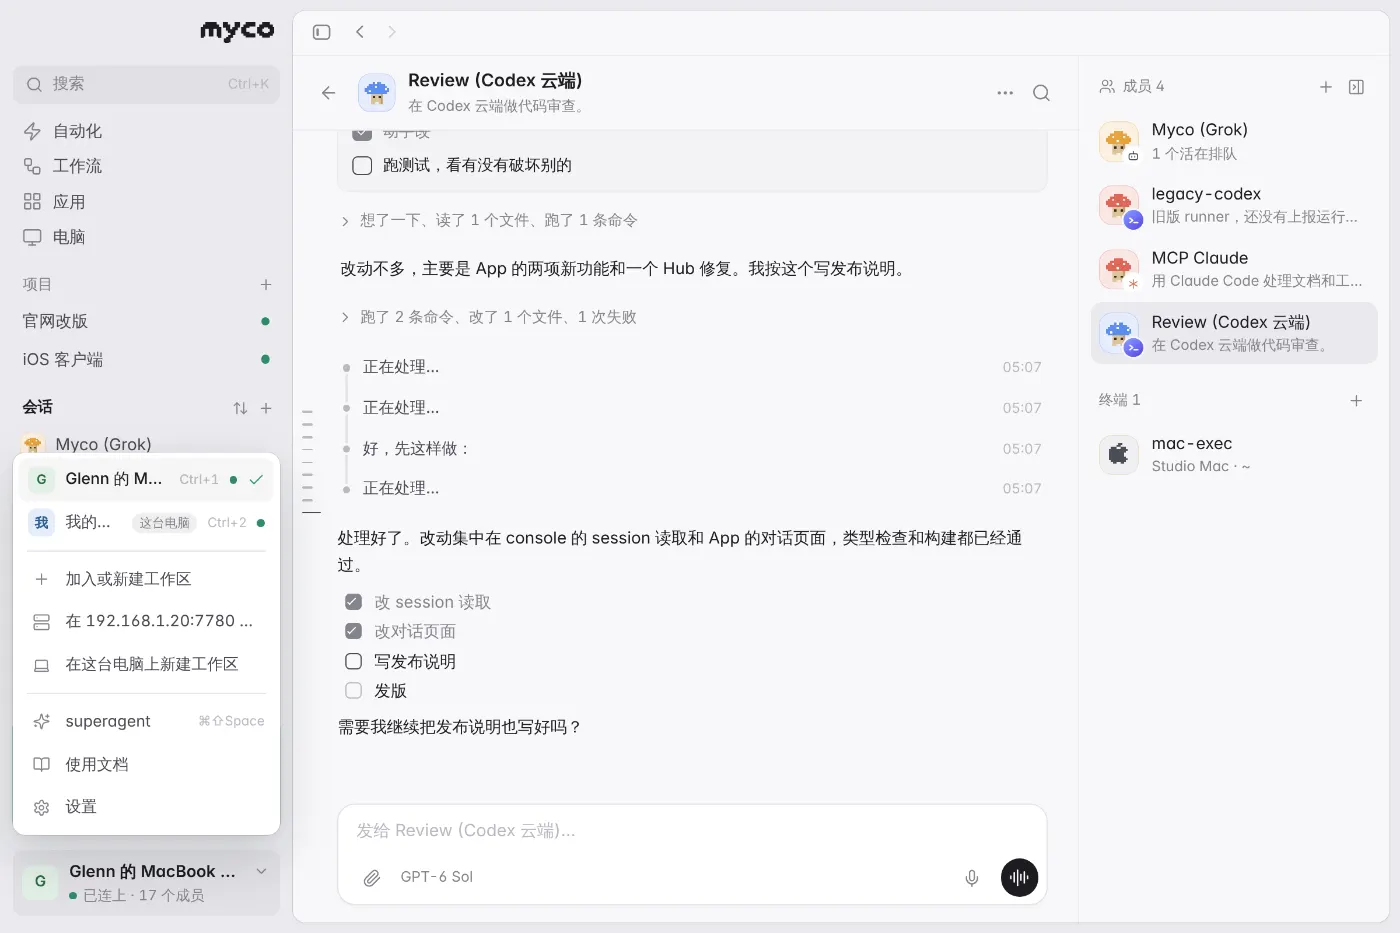
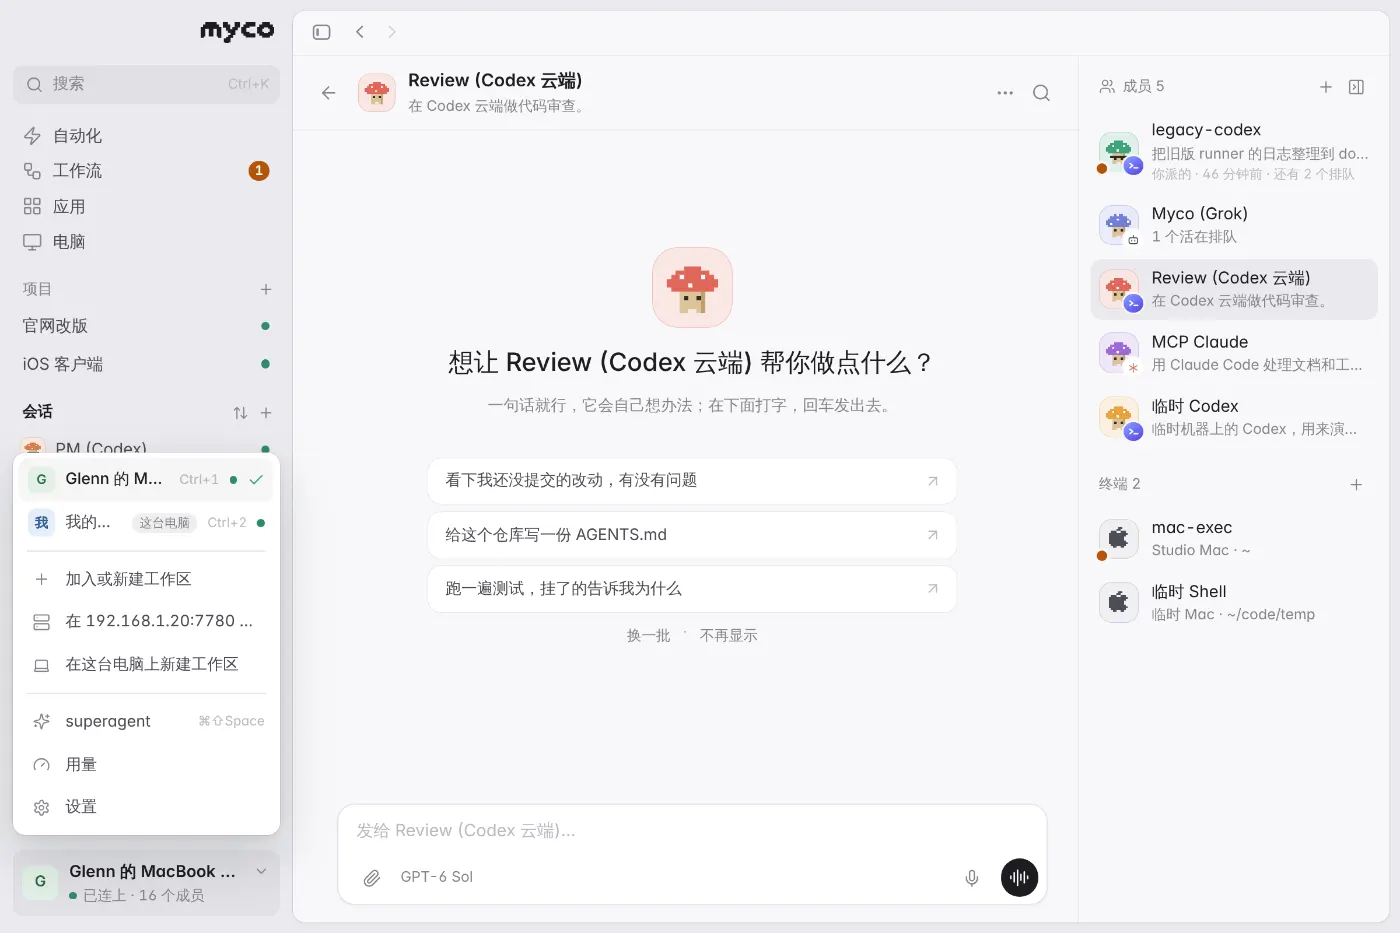
App: the user guide moves into Settings
The workspace menu drops 使用文档 / User guide; it becomes the last row
of Settings' nav, with a small arrow since it leaves Settings for the
guide's own page (Settings › About still opens it too). The guide's
start and workspaces pages, its workspace-menu picture and the UI spec
say so.

Claude-Session: https://claude.ai/code/session_01SVLvbUmqcRRBsW7VS6H8uC

diff --git a/web/src/app/HubSwitcher.tsx b/web/src/app/HubSwitcher.tsx
@@ -1,6 +1,6 @@
 import { Fragment, useEffect, useMemo, useRef, useState } from "react";
 import {
-  BookOpen, Check, ChevronDown, ChevronUp, Gauge, Laptop, Plus, Server, Settings, Sparkles,
+  Check, ChevronDown, ChevronUp, Gauge, Laptop, Plus, Server, Settings, Sparkles,
 } from "lucide-react";
 import type { Hub, HubOverview } from "@/appapi";
 import { useHubLooks, type HubLook } from "@/app/hubLooks";
@@ -17,7 +17,6 @@ type Entry =
   | { key: string; kind: "newLocal" }
   | { key: string; kind: "newOnServer" }
   | { key: string; kind: "settings" }
-  | { key: string; kind: "guide" }
   | { key: string; kind: "usage" }
   | { key: string; kind: "superagent" };
 
@@ -64,7 +63,7 @@ function switchKey(n: number): string {
   return /Mac|iPhone|iPad/.test(p) ? `⌘${n}` : `Ctrl+${n}`;
 }
 
-export function HubSwitcher({ hubs, hubsOv, value, onChange, onAdd, onNewLocal, onNewOnServer, serverName, onSettings, onGuide, onUsage, usageOpen, onSuperagent, superagent, superagentKey, isLocal, variant = "sidebar", down = false, simple = false }: {
+export function HubSwitcher({ hubs, hubsOv, value, onChange, onAdd, onNewLocal, onNewOnServer, serverName, onSettings, onUsage, usageOpen, onSuperagent, superagent, superagentKey, isLocal, variant = "sidebar", down = false, simple = false }: {
   /** opens your superagent (its chat, or setting one up); unset: the
    *  workspace has none to offer (an older hub) */
   onSuperagent?: () => void;
@@ -87,8 +86,6 @@ export function HubSwitcher({ hubs, hubsOv, value, onChange, onAdd, onNewLocal, 
   onNewOnServer?: () => void;
   serverName?: string;
   onSettings: () => void;
-  /** the user guide (使用文档) */
-  onGuide?: () => void;
   /** the workspace's token usage (用量); usageOpen: it is on show */
   onUsage?: () => void;
   usageOpen?: boolean;
@@ -116,9 +113,8 @@ export function HubSwitcher({ hubs, hubsOv, value, onChange, onAdd, onNewLocal, 
     { key: "newLocal", kind: "newLocal" as const },
     ...(onSuperagent ? [{ key: "superagent", kind: "superagent" as const }] : []),
     ...(onUsage ? [{ key: "usage", kind: "usage" as const }] : []),
-    ...(onGuide ? [{ key: "guide", kind: "guide" as const }] : []),
     { key: "settings", kind: "settings" },
-  ], [hubs, onNewOnServer, onSuperagent, onUsage, onGuide, simple]);
+  ], [hubs, onNewOnServer, onSuperagent, onUsage, simple]);
 
   const selectedIndex = (): number => {
     const i = entries.findIndex((e) => e.kind === "hub" && e.hub.id === value);
@@ -141,7 +137,6 @@ export function HubSwitcher({ hubs, hubsOv, value, onChange, onAdd, onNewLocal, 
     else if (e.kind === "newOnServer") { close(); onNewOnServer?.(); }
     else if (e.kind === "settings") { close(); onSettings(); }
     else if (e.kind === "superagent") { close(); onSuperagent?.(); }
-    else if (e.kind === "guide") { close(); onGuide?.(); }
     else if (e.kind === "usage") { close(); onUsage?.(); }
   };
 
@@ -276,7 +271,7 @@ export function HubSwitcher({ hubs, hubsOv, value, onChange, onAdd, onNewLocal, 
                 </button>
               );
             }
-            const Icon = e.kind === "add" ? Plus : e.kind === "newLocal" ? Laptop : e.kind === "newOnServer" ? Server : e.kind === "superagent" ? Sparkles : e.kind === "guide" ? BookOpen : e.kind === "usage" ? Gauge : Settings;
+            const Icon = e.kind === "add" ? Plus : e.kind === "newLocal" ? Laptop : e.kind === "newOnServer" ? Server : e.kind === "superagent" ? Sparkles : e.kind === "usage" ? Gauge : Settings;
             return (
               <Fragment key={e.key}>
                 {(e.kind === "add" || e.kind === "superagent" || (e.kind === "usage" && !onSuperagent)) && <div className="app-hub-menu-sep" />}
@@ -288,7 +283,7 @@ export function HubSwitcher({ hubs, hubsOv, value, onChange, onAdd, onNewLocal, 
                   aria-current={e.kind === "usage" && usageOpen ? "page" : undefined}
                   onMouseEnter={() => setActive(i)}
                   onClick={() => run(i)}
-                  data-testid={e.kind === "superagent" ? "menu-superagent" : e.kind === "guide" ? "menu-guide" : e.kind === "usage" ? "menu-usage" : undefined}
+                  data-testid={e.kind === "superagent" ? "menu-superagent" : e.kind === "usage" ? "menu-usage" : undefined}
                 >
                   <span className="app-hub-menu-icon-wrap"><Icon /></span>
                   <span className="app-hub-menu-name">
@@ -300,9 +295,7 @@ export function HubSwitcher({ hubs, hubsOv, value, onChange, onAdd, onNewLocal, 
                           ? (serverName ? L(`在 ${serverName} 上新建工作区`, `New workspace on ${serverName}`) : L("在这台服务器上新建工作区", "New workspace on this server"))
                           : e.kind === "superagent"
                             ? "superagent"
-                            : e.kind === "guide"
-                              ? L("使用文档", "User guide")
-                              : e.kind === "usage"
+                            : e.kind === "usage"
                                 ? L("用量", "Usage")
                               : L("设置", "Settings")}
                   </span>

diff --git a/web/src/app/SettingsPage.tsx b/web/src/app/SettingsPage.tsx
@@ -5,7 +5,7 @@ import { TailscaleSetup } from "@/app/TailscaleSetup";
 import { IntroCard, introOf, noteDone } from "@/app/Onboard";
 import { useCallback, useEffect, useRef, useState } from "react";
 import {
-  AlertTriangle, AudioLines, Bot, Check, Cloud, Globe, Info, Keyboard, Languages, Palette, Pencil, Plus, RotateCcw, ScrollText, Search, Server, ShieldCheck, Terminal, Users,
+  AlertTriangle, ArrowUpRight, AudioLines, BookOpen, Bot, Check, Cloud, Globe, Info, Keyboard, Languages, Palette, Pencil, Plus, RotateCcw, ScrollText, Search, Server, ShieldCheck, Terminal, Users,
 } from "lucide-react";
 import {
   appApi, ApiError, type AppInfo, type CacheStats, type AppUpdate, type Hub, type HubOverview, type LocalState,
@@ -549,6 +549,15 @@ export function SettingsPage({ hubs, hubsOv, info, theme, onTheme, textSize, onT
                   <span>{s.label}</span>
                 </button>
               ))}
+              {/* The user guide, last: not a section here; it opens the
+                  guide's own page (and closes Settings). */}
+              {gi === GROUPS.length - 1 && (
+                <button type="button" className="app-settings-tab app-settings-link" onClick={() => openHelp()} data-testid="settings-nav-guide">
+                  <BookOpen strokeWidth={1.75} />
+                  <span>{L("使用文档", "User guide")}</span>
+                  <ArrowUpRight className="app-settings-link-arrow" strokeWidth={1.75} aria-hidden />
+                </button>
+              )}
             </div>
           );
         })}

diff --git a/web/src/app/AppMode.tsx b/web/src/app/AppMode.tsx
@@ -247,8 +247,8 @@ export default function AppMode({ initialHubs, initialInfo }: {
     window.addEventListener("myco-open-settings", on);
     return () => window.removeEventListener("myco-open-settings", on);
   }, []);
-  // 使用文档, from anywhere (Help.tsx openHelp): the workspace menu,
-  // Settings, the 上手清单, the Mac's Help menu.
+  // 使用文档, from anywhere (Help.tsx openHelp): Settings (its nav and About),
+  // the 上手清单, the Mac's Help menu.
   const [helpStart, setHelpStart] = useState<{ doc?: HelpId; n: number }>({ n: 0 });
   useEffect(() => {
     const on = (e: Event) => {
@@ -1357,7 +1357,7 @@ export default function AppMode({ initialHubs, initialInfo }: {
                 superagentKey={isMac ? "⌘⇧Space" : undefined}
                 superagent={sa?.state ? { name: sa.state.agent?.name, pending: sa.approvals.filter((a) => a.status === "pending" && a.agent === sa.state?.agent?.name).length } : undefined}
                 onUsage={() => { setNavChat(null); toPage("usage"); }} usageOpen={page === "usage"}
-                onSettings={() => setPage("settings")} onGuide={() => openHelp()} />
+                onSettings={() => setPage("settings")} />
             </div>
           </div>
         </aside>

diff --git a/web/src/app/app.css b/web/src/app/app.css
@@ -2603,6 +2603,10 @@ textarea.app-input {
 .app-settings-tab.active svg {
   color: var(--fg-2);
 }
+/* A row that leaves Settings (使用文档): a small arrow says so. */
+.app-settings-link > span { flex: 1; }
+.app-settings-tab svg.app-settings-link-arrow { width: 13px; height: 13px; color: var(--faint); }
+.app-settings-link:hover svg.app-settings-link-arrow { color: var(--muted); }
 .app-settings-body {
   flex: 1;
   min-width: 0;

diff --git a/docs/design/app-ui.md b/docs/design/app-ui.md
@@ -26,7 +26,7 @@ Treat the user as someone who is not technical. Only these words appear in the i
 - **Workspaces in onboarding** (2026-11): a new user needs to know what a workspace is (where your agents meet: agents connected to the same workspace, on whichever computer, can hand each other work and do projects together), where it runs, how to let other computers and colleagues join, and that more can be created or joined. The small text under the welcome page's primary button says "It starts a workspace on this computer, where your agents meet". At the top of the Set up this computer page, "Your workspace": one line on what it is, a card (initial square, name, "On this computer · This computer and local network only"; when it is not opened up, "Let computers outside connect" on the right opens the Open to the internet dialog), and below it three lines of small text: other computers connect under "Computers › Connect a computer", colleagues use an invite link, and to keep things apart, create or join another one from the workspace menu at the bottom left; the title bar of the small window on the right canvas shows the workspace name, and below it one line "Inside, they are in My workspace". The third step of the getting-started checklist, "Meet your workspace", opens Settings › Workspaces (in simple mode too: a section that is explicitly sent to appears in the navigation for the time being); opening that page ticks the step (when Settings is already open, it switches there directly), and the first time, that page has an intro card.
 - **New project** (`NewProjectForm` in `AddToProject.tsx`; the sidebar's "+ New project", ⌘N and the getting-started checklist all open it): the dialog has one line of explanation (state the goal clearly and add the materials, so the coordinator and members know from the start what to do), and three fields from top to bottom: project name (required); goal (optional, a three-line text area whose example reads "what, by when, and what counts as done", with small text below: "The coordinator and members all see it; change it any time in Project notes"); files (optional): a dashed box "Drop files here, or click to choose" (requirements, designs, conventions, screenshots, each up to 20 MB); chosen files are listed one per row (file icon, name, size, × to remove); a file over 20 MB is marked red, and the primary button is greyed out with an explanation. With files, the primary button reads "Create, with N file(s)"; in progress it reads "Creating…", "Uploading files 2/3…". Files are uploaded after the project is created; if some did not upload, the dialog changes to one line "The project is made, but N file(s) did not go up", lists them, and offers "Go in; upload later" or "Try again".
 - **Getting-started checklist** (`Checklist` in `Onboard.tsx`, modelled on Kettu's SetupGuide, 2026-11): a small card at the bottom of the sidebar, above the workspace switcher. It appears only on a newly installed computer (started from the welcome page, or from Settings › About › "Getting started · Open"; kept on this computer as `myco-onboard`). The title "Getting started 2/5", a fold arrow and × (don't show again), and below them a thin progress bar (black; green when everything is done); expanded, it shows six steps, each with a circle, a name and one grey line of explanation: Connect your first agent, Give it something to do, Meet your workspace, Have two agents work together (start a project), Set up an automation, Connect another computer. Done steps tick themselves (judged from the workspace's data: there is an agent, you have sent a task, there is a project with two or more members, there is an automation, there are two or more computers): the circle becomes solid and the text is struck through and greyed. Clicking a step not yet done goes to do it (opens Add agent, the chat with the first agent, New project, the Automations page, Connect a computer). When everything is done, it shows "All done" and "Put it away". The folded state is kept on this computer.
-- **User guide** (`Help.tsx`, content in `web/src/app/help/zh` and `help/en`, one Markdown file per page, built into the App, 2026-11): read as a documentation site: on the left a search box and the pages in groups (Getting started, with workspaces right after the introduction; Workspaces and network; Working together; Computers and terminals; Automation; Getting more out of it; More), the one shown with a background; on the right the page as a document (`.fp-doc`), "Previous" and "Next" at its foot. A page links another as `[text](#help/<id>)`, opened in place. Narrow windows pick the page from one list above it. It opens from the workspace menu ("User guide"), Settings › About, the Mac's Help menu, and the last step of the getting-started checklist ("See what else myco does", ticked once the guide was opened); the page last read opens next time. A page is written for someone doing it: what it is and when you need it, then steps in the order people meet them, with the real labels (checked in the code), and screenshots: `![what it shows](shot:<name>)` names a UI test screenshot (`ui-smoke/1200x800-light-<name>.png`); `node scripts/help-shots.mjs` (after `UI_SMOKE_SCALE=2 node scripts/ui-smoke.mjs --combo 1200-light`) makes it a WebP in `help/img`, bundled with the App. Pictures are as wide as the text, framed like a window, and open full size on click (← → through the page's). A new feature gets its page (or a section) here, in both languages, with pictures.
+- **User guide** (`Help.tsx`, content in `web/src/app/help/zh` and `help/en`, one Markdown file per page, built into the App, 2026-11): read as a documentation site: on the left a search box and the pages in groups (Getting started, with workspaces right after the introduction; Workspaces and network; Working together; Computers and terminals; Automation; Getting more out of it; More), the one shown with a background; on the right the page as a document (`.fp-doc`), "Previous" and "Next" at its foot. A page links another as `[text](#help/<id>)`, opened in place. Narrow windows pick the page from one list above it. It opens from the the last row of Settings' nav ("User guide", with a small ↗: it leaves Settings for the guide's page; not in the workspace menu), Settings › About, the Mac's Help menu, and the last step of the getting-started checklist ("See what else myco does", ticked once the guide was opened); the page last read opens next time. A page is written for someone doing it: what it is and when you need it, then steps in the order people meet them, with the real labels (checked in the code), and screenshots: `![what it shows](shot:<name>)` names a UI test screenshot (`ui-smoke/1200x800-light-<name>.png`); `node scripts/help-shots.mjs` (after `UI_SMOKE_SCALE=2 node scripts/ui-smoke.mjs --combo 1200-light`) makes it a WebP in `help/img`, bundled with the App. Pictures are as wide as the text, framed like a window, and open full size on click (← → through the page's). A new feature gets its page (or a section) here, in both languages, with pictures.
 - **Feature intro cards** (`IntroCard` in `Onboard.tsx`, modelled on Cindy's first-time feature intros): also only on a newly installed computer; the first time you enter a project's home page, Apps, the Computers page or Settings › Workspaces (and the Automations page when it has automations), a card under the page header: one bold line "X: what it is for", one or two lines of explanation below, "Got it" on the right, and on the Computers page also "Connect a computer". Once clicked, it never appears again (kept on this computer as `myco-intro-seen`). When the page has its own empty-state explanation (no automations yet, no computers yet, workspace too old), it does not appear, so nothing is said twice.
 - "Automations", "Workflows", "Apps" and "Computers" at the top of the sidebar (and "Needs you", 待处理, when it is shown again: see below); for the pages: clicking one again while already on that page goes back to its list (closing the automation or computer that is open).
 - **Examples in an empty chat** (`EmptyChat` in `ConversationDetail.tsx`, modelled on Cindy's home-page suggestions): under the large avatar and an opening question, three lines of things to click (with an agent: Show me around this project, Review my uncommitted changes, Write an AGENTS.md for this repository, Run the tests… 8 in all; with a project coordinator: Break this project into steps and hand them out, Ask each member what they are working on… 6 in all), each on a card background with a ↗ on the right; a click puts it in the input box (cursor at the end), to edit and then send; it is not sent directly. Below: "Others · Don't show again"; "don't show again" is kept on this computer (`myco-starters-off`).

diff --git a/web/src/app/help/en/start.md b/web/src/app/help/en/start.md
@@ -37,7 +37,7 @@ On the left is the sidebar, from top to bottom:
 - **Projects**: your projects; + starts one.
 - **Conversations**: the agents you can talk to; + adds an agent.
 - **Terminals**: folders on computers where agents run commands.
-- At the very bottom, **the current workspace**: click it to switch workspaces and to open the user guide and Settings.
+- At the very bottom, **the current workspace**: click it to switch workspaces, see usage, and open Settings.
 
 The middle shows the chat or page you are on. In a chat or a project, the right side lists the members and terminals involved, so you can see at a glance who is working on what.
 
@@ -68,4 +68,4 @@ A newly installed App has a "Getting started" card at the bottom of the sidebar:
 
 ## Finding this guide again
 
-The workspace menu at the bottom left has **User guide**, and Settings › About opens it too. Search is on the left, and it opens on the page you read last. You can also ask your [superagent](#help/superagent) or any agent, or look at the [FAQ](#help/faq).
+**User guide** is the last row on the left of **Settings**, and Settings › About opens it too. Search is on the left, and it opens on the page you read last. You can also ask your [superagent](#help/superagent) or any agent, or look at the [FAQ](#help/faq).

diff --git a/web/src/app/help/en/workspaces.md b/web/src/app/help/en/workspaces.md
@@ -55,9 +55,9 @@ An invite link works once, within 24 hours. If all you have is an address and a 
 - Keyboard: **⌘1…⌘9** (Ctrl+1…Ctrl+9 on Windows) switch in the menu's order.
 - You come back to where you were in that workspace.
 
-The same menu has the superagent, **User guide** and **Settings** (⌘, / Ctrl+,).
+The same menu has the superagent, **Usage** and **Settings** (⌘, / Ctrl+,); the user guide is in Settings.
 
-![The workspace menu at the bottom left: switch, join or start, user guide, settings](shot:workspace-switch)
+![The workspace menu at the bottom left: switch, join or start, usage, settings](shot:workspace-switch)
 
 ## Settings › Workspaces
 

diff --git a/web/src/app/help/zh/workspaces.md b/web/src/app/help/zh/workspaces.md
@@ -55,9 +55,9 @@
 - 键盘：**⌘1…⌘9**（Windows 上 Ctrl+1…Ctrl+9）按菜单里的顺序直接切换。
 - 切过去后，回到你上次在那个工作区看的地方。
 
-同一个菜单里还有 superagent、「**使用文档**」和「**设置**」（⌘, / Ctrl+,）。
+同一个菜单里还有 superagent、「**用量**」和「**设置**」（⌘, / Ctrl+,）；使用文档在设置里。
 
-![左下角的工作区菜单：切换、加入或新建、使用文档、设置](shot:workspace-switch)
+![左下角的工作区菜单：切换、加入或新建、用量、设置](shot:workspace-switch)
 
 ## 设置 › 工作区
 
